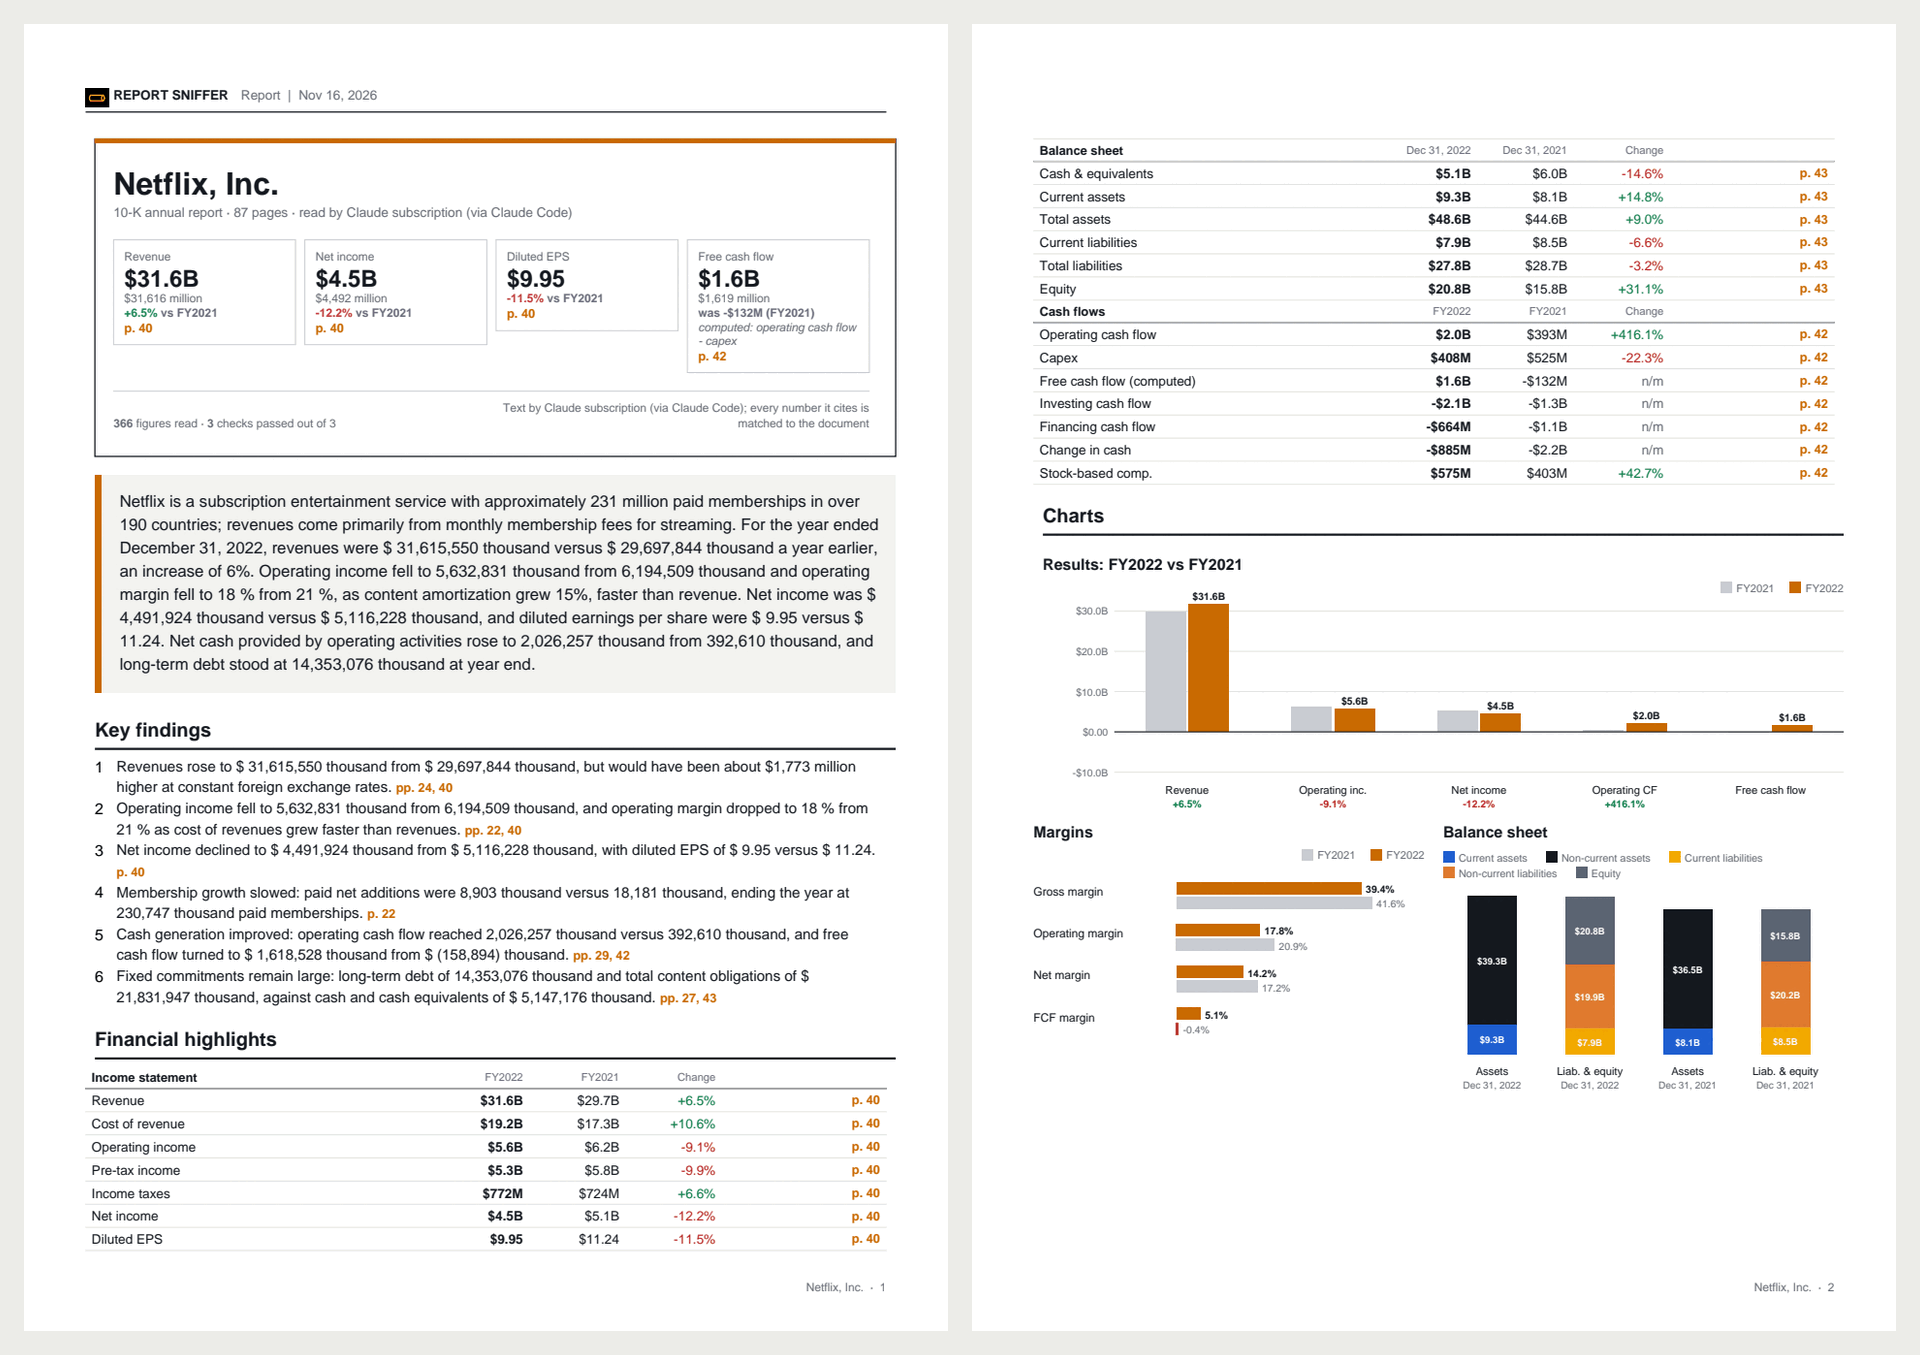
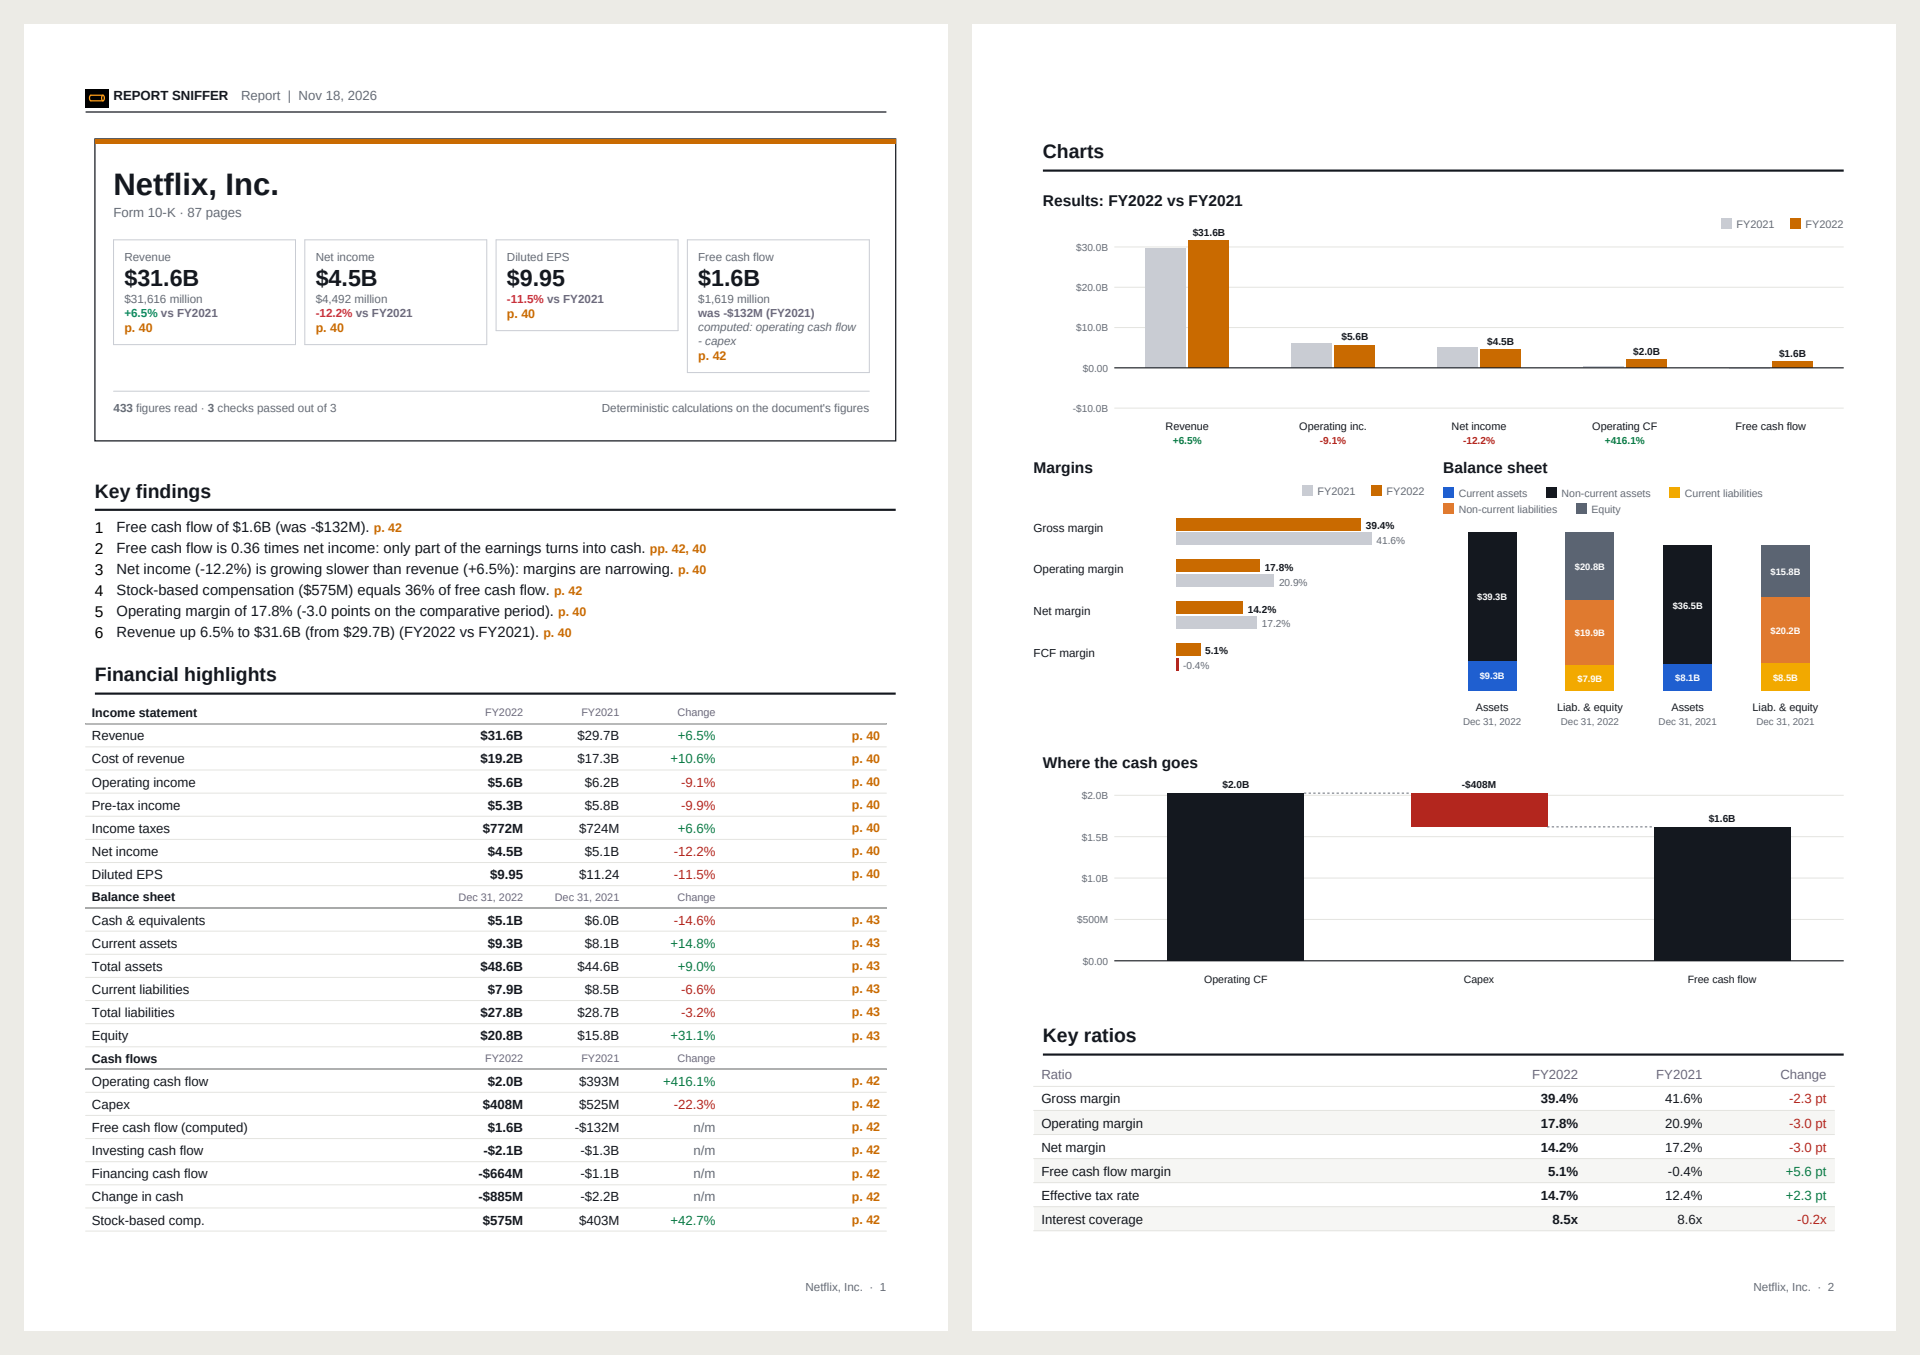
New screenshots for v2; years in sentences are not figures
- Screenshots and the animation redone on Netflix's 2022 10-K, read by rules
  with no AI: the banknote without the typed figure, every figure read staying
  highlighted, the card, the PDF report, the slides and the search.
- A year followed by a comma or a full stop ("2022,") was taken as a figure in
  prose pages; now it is a year like "2022" (reading version 10).
- The side panel shows no table header for a page without statement lines.

Claude-Session: https://claude.ai/code/session_01Uw62wra1VrXjCS9hEupqCE

diff --git a/web/app.js b/web/app.js
@@ -723,8 +723,9 @@ class Director {
     const a = this.a, p = a.pages.find((x) => x.n === n), T = L();
     $("#r-sec-title").textContent = `${p ? p.title : T.page + " " + pageLabel(n)} · ${T.pg(pageLabel(n))}`;
     const cols = a.cols[n] || [T.value];
-    $("#r-table thead").innerHTML = `<tr><th></th>${cols.map((c) => `<th>${esc(c)}</th>`).join("")}</tr>`;
     const rows = (a.rows[n] || []).filter((r) => r.cells.some((fid) => fid !== null && this.planned.has(String(fid))));
+    // a page without statement lines has no table: its figures go to "Other figures read"
+    $("#r-table thead").innerHTML = rows.length ? `<tr><th></th>${cols.map((c) => `<th>${esc(c)}</th>`).join("")}</tr>` : "";
     this.rowOf = new Map();
     $("#r-table tbody").innerHTML = rows.map((r, i) => {
       r.cells.forEach((fid, j) => fid !== null && this.rowOf.set(String(fid), [i, j]));

diff --git a/analyst/generic.py b/analyst/generic.py
@@ -72,8 +72,8 @@ def is_figure(token: str, allow_digit: bool = False) -> bool:
     digits = re.sub(r"\D", "", t)
     if not digits:
         return False
-    # years, footnote marks and lone small integers are rarely the figures we want
-    if re.fullmatch(r"(19|20)\d\d", t):
+    # years (also inside a sentence: "2022," "2021."), footnote marks and lone small integers are rarely the figures we want
+    if re.fullmatch(r"(19|20)\d\d[,.;:]?", t):
         return False
     if re.fullmatch(r"\d", t) and not allow_digit:
         return False

diff --git a/tests/test_pipeline.py b/tests/test_pipeline.py
@@ -72,7 +72,7 @@ def test_generic_number_parsing():
     assert generic.parse_loose("1.234.567,89") == pytest.approx(1234567.89)
     assert generic.parse_loose("1,234,567.89") == pytest.approx(1234567.89)
     assert generic.parse_loose("(2,5%)") == -2.5
-    assert not generic.is_figure("2025")
+    assert not generic.is_figure("2025") and not generic.is_figure("2022,") and not generic.is_figure("2021.")
 
 
 def test_market_sheet():

diff --git a/analyst/pipeline.py b/analyst/pipeline.py
@@ -43,7 +43,7 @@ html,body{margin:0;background:transparent}
 
 
 # bumped whenever the reading changes, so documents read by older code are read again
-PIPELINE_VERSION = 9
+PIPELINE_VERSION = 10
 
 
 def _id(*parts) -> str:

diff --git a/README.md b/README.md
@@ -6,7 +6,7 @@ Report Sniffer reads financial documents (10-K, ESEF, PDFs, market data) and bui
 terminal-style interface. A desktop app with its own window for macOS, Windows and Linux; everything runs on your
 computer. Free and open source under the [MIT license](LICENSE).
 
-![The sniffer reading the income statement of Netflix's 2022 10-K while the report fills in](docs/screenshots/sniffer.gif)
+![The sniffer reading the income statement and the cash flows of Netflix's 2022 10-K: every figure read stays highlighted on the original page while the report fills in](docs/screenshots/sniffer.gif)
 
 The sniffer, a small rolled banknote, goes over the original pages of the document and highlights the figures one by
 one while the report fills in. **Every figure, check and finding is read and computed by rules** — no AI is needed.
@@ -18,18 +18,16 @@ and for every report (in the page, PDF, PowerPoint and Excel). See [Languages](#
 
 ## Screenshots
 
-Netflix's 2022 10-K (FinanceBench PDF). These screenshots come from version 1.x, when an AI read every document:
-the reading, the card and the exports look the same today; the AI's texts now come from the optional
-[AI context](#the-ai-optional-context-and-news), and the figure is no longer typed out next to the banknote.
+Netflix's 2022 10-K (FinanceBench PDF), read by rules, with no AI connected.
 
 | | |
 |---|---|
-| ![The sniffer on page 40, the income statement: the figures read are underlined; on the right the figures it has read, with their page](docs/screenshots/reading.png) | ![The final card: revenue, net income, diluted EPS and free cash flow with the year-on-year change and the page of each figure; on the right what the AI understood](docs/screenshots/card.png) |
-| **Reading** — every figure is selected, underlined and lands in the report with its page. | **The card** — headline figures, findings and checks, each citing its page. |
+| ![The sniffer on page 40, the income statement: the figures read stay highlighted and underlined; on the right the statement lines filled in and the other figures read, with their page](docs/screenshots/reading.png) | ![The final card: revenue, net income, diluted EPS and free cash flow with the year-on-year change and the page of each figure; three findings and the checks](docs/screenshots/card.png) |
+| **Reading** — every figure is highlighted where it is printed on the original page and lands in the report with its page. | **The card** — headline figures, findings and checks, each citing its page. |
 | ![Search for "ferrari": the ESEF annual reports of five years from filings.xbrl.org and the listed shares](docs/screenshots/search.png) | ![Four slides of the PowerPoint export: headline figures, results chart, margins and balance sheet, income statement table](docs/screenshots/slides.png) |
 | **Search** — annual reports, quarterly reports and earlier years, to analyse or download. | **PowerPoint** — editable charts and tables, every slide names its source pages. |
 
-![The first two pages of the PDF report: card, summary, findings, financial highlights and charts](docs/screenshots/report.png)
+![The first two pages of the PDF report: card, findings, financial highlights, charts and key ratios](docs/screenshots/report.png)
 
 **PDF report** — the same analysis on paper; the figures are also downloadable as an Excel workbook.
 
